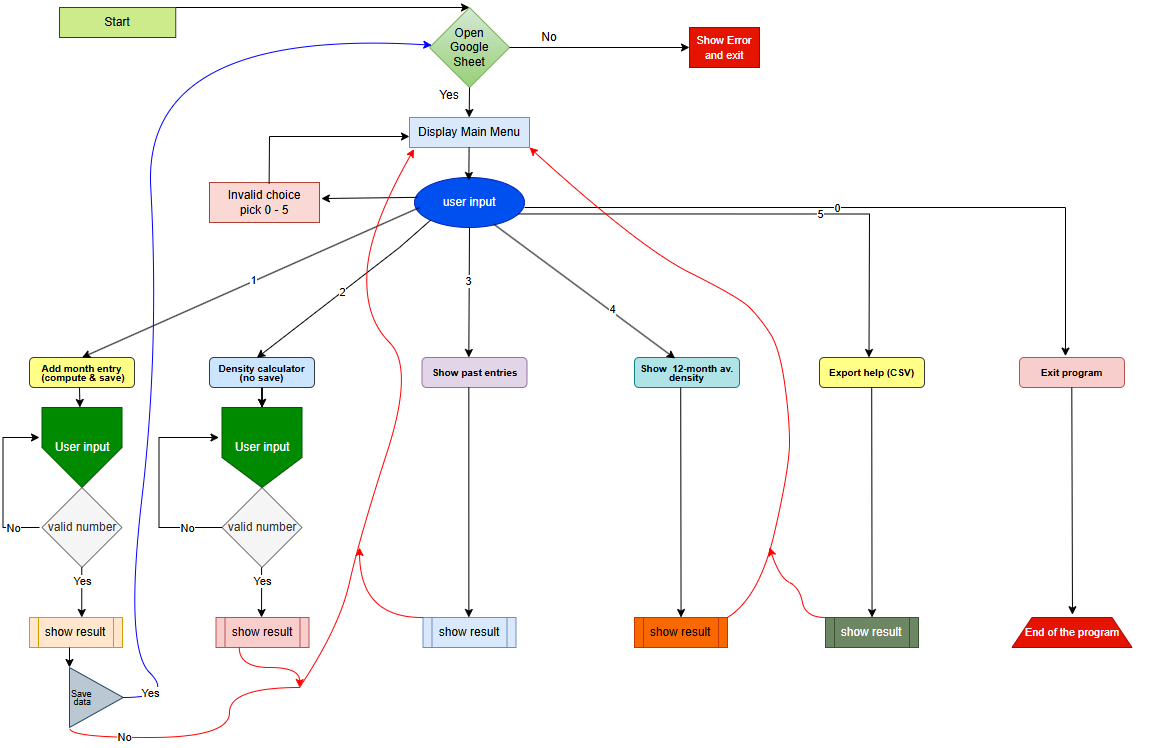
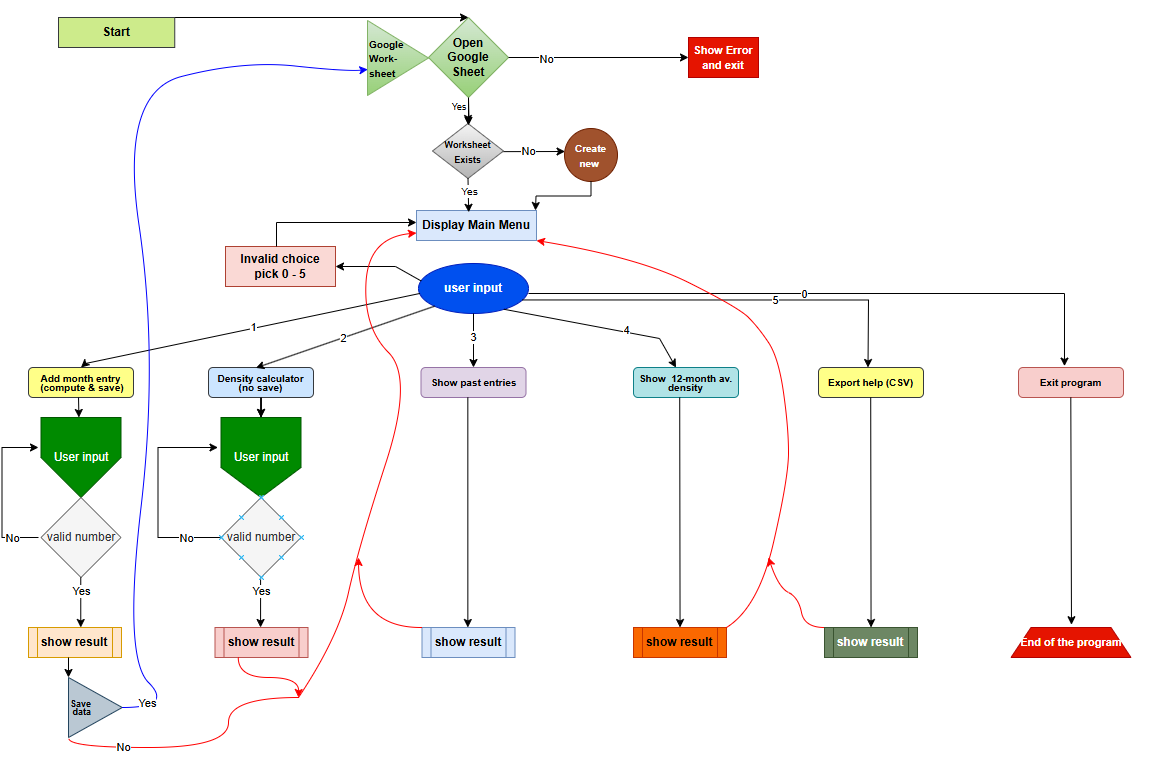
simplify menu output and update README with deployment details

diff --git a/run.py b/run.py
@@ -322,19 +322,16 @@ def main():
 
     while True:
         print("\n=== Rain Density Menu ===\n")
-        print("This beginner-friendly script records monthly rainfall data and")
-        print("computes rain density using the formula:\n")
-        print("    D = V / A\n")
-        print("Where:")
-        print("    D = density (mm/h per m²)")
-        print("    V = rainfall volume (mm/h for the month)")
-        print("    A = catchment area (square meters)\n")
-        print("1) Add monthly entry (compute & save)")
-        print("2) Density calculator (no save)")
-        print("3) Show past entries")
-        print("4) Show 12-month average density")
-        print("5) Export help (CSV)")
-        print("0) Exit \n")
+        print("Units:")
+        print("    D = density in (mm/h per m²)")
+        print("    V = rainfall volume in (mm/h for the month)")
+        print("    A = catchment area in (square meters)\n")
+        print(" 1) Add monthly entry (compute & save)")
+        print(" 2) Density calculator (no save)")
+        print(" 3) Show past entries")
+        print(" 4) Show 12-month average density")
+        print(" 5) Export help (CSV)")
+        print(" 0) Exit \n")
         
         choice = input("Choose an option: \n").strip()
 

diff --git a/README.md b/README.md
@@ -20,20 +20,31 @@
   * The program seamlessly handles the connection, creation, and population of your Google Sheet. It even provides a helpful hint on how to export your data as a CSV file for further analysis.
   
 
-##  How to use the app.
-![Main Menu Options](/images/rainfullDensityMenu.png)
+##  How to use the app.  
+   
+  This application is a Rain Density Calculator that stores data in Google Sheets. It lets you log rainfall data, calculate density, and analyze trends over time.  
+### 1. **Startup**  
+   
+     * When the program runs, it connects to a Google Sheet called rain_data.
+     * If the worksheet (sheet1) doesn’t exist, it creates one automatically.
+     * A header row is prepared with these columns:  
+        - year | month | rain_volume(mm/h) | area_m2 | density | save_at.
 
-Very smpile frindly use a Main Menu Options.
-
+### 2. **Main Menu**   
+   
+  ![Main Menu Options](/images/rainfullDensityMenu.png)  
+  
+### 3. **Menu Options**
+   
 === Rain Density Menu ===
 1) Add monthly entry (compute & save)
 2) Density calculator (no save)
 3) Show past entries
 4) Show 12-month average density
 5) Export help (CSV)
-0) Exit
+6) Exit
 
-#### Option 1: Add monthly entry
+ #### Option 1: Add monthly entry
 
     Enter year, month, rainfall volume (mm/h), and area (m²).
 
@@ -59,7 +70,15 @@ Very smpile frindly use a Main Menu Options.
 
 #### Option 0: Exit
 
-    Quit the program.
+    Quit the program.  
+    
+### 4. **Error Handling**
+
+  *  If credentials are missing/invalid or internet is down → the program exits with a friendly error message.
+  *  Invalid inputs (non-numbers, out of range values) trigger a retry until valid data is entered.  
+  *  Invalid menu choices print an error and return to the menu.
+ 
+ 
 
 
 ## Future Features.
@@ -75,8 +94,8 @@ This project is designed to be extendable. Possible future improvements include:
 - **Enhanced Frontend Experience**
     * Improve the user interface with a more intuitive and visually appealing dashboar.  
   
-## Program sturcture digram  
-   ![Program sturcture digram ](/images/rainDensityDiagram.png)
+## Program sturcture diagram  
+   ![Program sturcture digram ](/images/rainDensityDiagram.png)  
 
 
 ## Testing  
@@ -88,7 +107,29 @@ This project is designed to be extendable. Possible future improvements include:
        |     FireFox   |   Windows 11     |    Very good       |
 
 
-* 
+* ### Manual Testing.  
+   
+
+
+| Feature Tested                                 | Test Input                                  | Expected Result                                               | Actual Result                                        | Pass/Fail |
+| ---------------------------------------------- | ------------------------------------------- | ------------------------------------------------------------- | ---------------------------------------------------- | --------- |
+| **Add monthly entry**                          | Year: 2025, Month: 5, Volume: 120, Area: 40 | Entry saved in Google Sheets, density = 3.0 mm/h per m²       | Entry saved correctly, density displayed as expected | ✅ Pass    |
+| **Add monthly entry (invalid year)**           | Year: `abcd`                                | Error message shown, retry prompt                             | Error handled, program requested correct input       | ✅ Pass    |
+| **Add monthly entry (invalid month)**          | Month: 15                                   | Error message shown, retry prompt                             | Error handled, program requested correct month       | ✅ Pass    |
+| **Add monthly entry (invalid area)**           | Area: -20                                   | Error message shown, retry prompt                             | Error handled, program requested valid area          | ✅ Pass    |
+| **Density calculator**                         | Volume: 100, Area: 50                       | Density = 2.0 mm/h per m², no save to sheet                   | Correct density displayed, nothing saved             | ✅ Pass    |
+| **Show past entries**                          | Select option 3                             | Display last entries from Google Sheets                       | Correct entries shown                                | ✅ Pass    |
+| **12-month average density**                   | Select option 4 (with ≥12 entries in sheet) | Average density displayed correctly                           | Correct result displayed                             | ✅ Pass    |
+| **12-month average density (not enough data)** | Select option 4 (with <12 entries)          | Message: "Not enough data to calculate."                      | Correct message displayed                            | ✅ Pass    |
+| **Export help**                                | Select option 5                             | Instructions to download CSV shown                            | Instructions displayed correctly                     | ✅ Pass    |
+| **Exit program**                               | Select option 0                             | Program exits with goodbye message                            | Program exited, copyright message shown              | ✅ Pass    |
+| **Heroku deployment**                          | Run app via Heroku URL                      | Program loads, menu visible, all functions work same as local | Application works correctly on Heroku                | ✅ Pass    |
+
+     
+
+
+
+
 * ### Bug Fixes
   *  First bug, I forgot to put the *creds.json* inside the *.gitignore* will led to GitHub blocked the push, I tried to remove the credentials file from Git’s history using the the command:
       * git rm --cached creds.json
@@ -111,16 +152,57 @@ This project is designed to be extendable. Possible future improvements include:
 * ### Validation Testing
   * **PEP8 :** No errors founded.  
   
-  * ![PEP8 Python Validator](/images/pythonValidator.png)
+     ![PEP8 Python Validator](/images/pythonValidator.png)
   
 
 
 
-## Deployment
+## Deployment  
+This project is deployed using Heroku with GitHub integration.
 
-The deployment terminal is set to 80 columns by 24 rows. That means that each line of text needs to be 80 characters or less otherwise it will be wrapped onto a second line.
-- [rainfall-density-software](https://rainfall-density-software-7020b1171ad7.herokuapp.com/)
-- [Google worksheet / rain_data](https://docs.google.com/spreadsheets/d/13GlGRDWNzIjLu406VNskZgQTsLugodR5KFMti6b02GE/edit?usp=sharing) The worksheet link.
+1. Prerequisites  
+   * A Herok account. 
+   * A linked GitHub repository containing this project.
+   * creds.json (Google Service Account credentials) already added securely as Config Vars (not uploaded to the repo).  
+  
+2. Connect GitHub to Heroku.  
+   * Log in to my Heroku Dashboard
+   * Click New → Create new app.
+   * Choose a unique App name and your region, then click Create app.
+   * Search for your repository *(rainfall_density_software)* and click Connect.  
+
+3. Set Config Vars  
+   This project requires authentication for Google Sheets via service account credentials.
+   Instead of uploading creds.json directly, you must add its content as an environment variable:  
+   * Go to your Heroku app → Settings → Config Vars.
+   * Click Reveal Config Vars.  
+      * Keys: CREDS , PORT
+      * Values: creds.json information, 4- digit number  
+
+4. Add Buildpacks
+   * Navigate to Settings → Buildpacks.
+   * Add the following buildpacks in order:
+      * heroku/python
+      * heroku/nodejs  
+  
+5. Deploy the App  
+   * In the Deploy tab, I selected the branch I wanted to deploy (main).  
+   * Clicked Deploy Branch.  
+   * I Waited until the build finishes successfully.  
+   * Click Open App to launch your deployed application.  
+   * 
+6. Enable Automatic Deploys  
+   *  In the Deploy tab, enable Automatic deploys from GitHub.
+   *  This ensures every push to my GitHub repository, will automatically trigger a new Heroku build.
+
+
+- 🌐 **Live App on Heroku:** [rainfall-density-software](https://rainfall-density-software-7020b1171ad7.herokuapp.com/) 
+- 📊 **Sample Data on Google Sheets:** [Google worksheet / rain_data](https://docs.google.com/spreadsheets/d/13GlGRDWNzIjLu406VNskZgQTsLugodR5KFMti6b02GE/edit?usp=sharing) The worksheet link.
+
+
+
+
+
 
 ## Credits.
 - [Love Sandwiches project](https://github.com/Code-Institute-Solutions/love-sandwiches-p5-sourcecode), the core structure of project, IDE configuration, Python virtual environment setup, API integration, and Heroku deployment 
